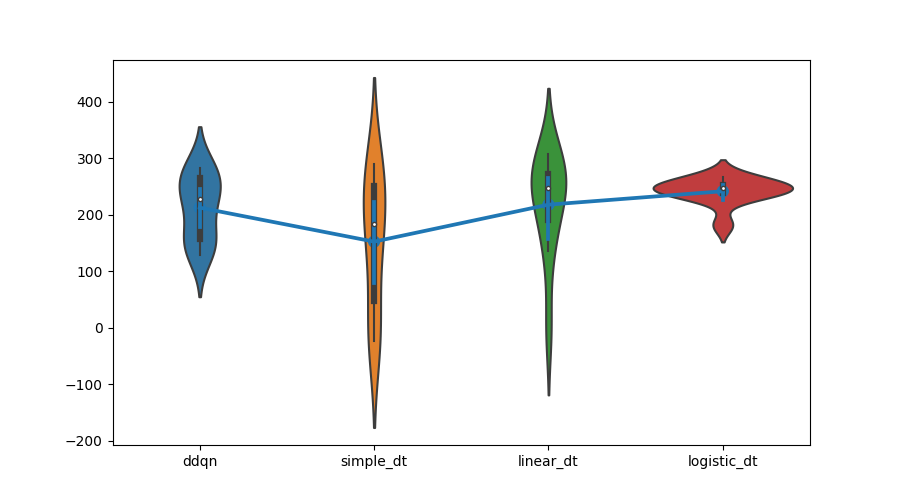
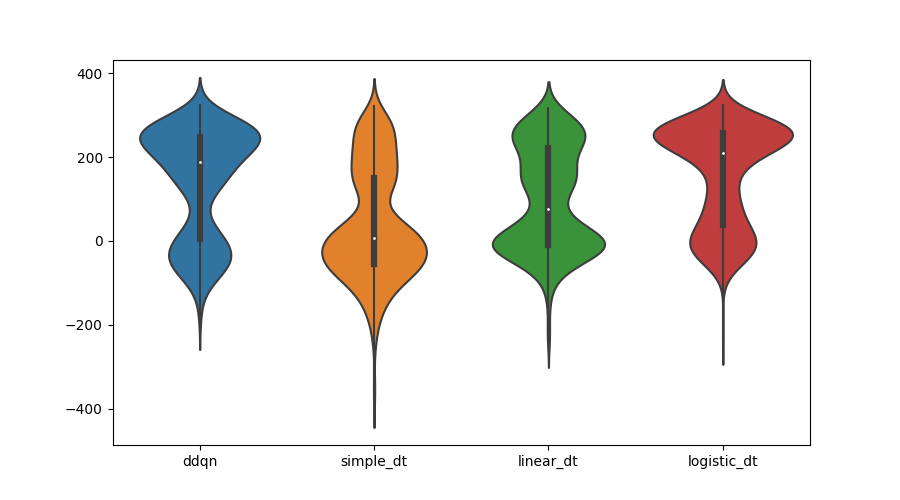
checkpoint

diff --git a/generate_table.py b/generate_table.py
@@ -1,0 +1,91 @@
+from rl import test_policy_full
+
+import torch
+import gymnasium as gym
+import matplotlib.pyplot as plt
+import seaborn as sns
+import pandas as pd
+import numpy as np
+
+from dqn import QNetwork
+from rl import train_dagger, test_policy_full
+from dt import DTPolicy, load_dt_policy, save_dt_policy, save_dt_policy_viz
+
+
+def load_ddqn():
+    q_network = QNetwork(state_size=8, action_size=4, seed=42)
+    q_network.load_state_dict(
+        torch.load('checkpoint.pth', map_location=torch.device('cpu')))
+
+    return q_network
+
+
+policies = {
+    'ddqn': load_ddqn(),
+    'simple_dt': load_dt_policy('models', 'simple_dt_policy.pk'),
+    'linear_dt': load_dt_policy('models', 'linear_dt_policy.pk'),
+    'logistic_dt': load_dt_policy('models', 'logistic_dt_policy.pk'),
+}
+
+n = 10
+
+
+def compare_all():
+    wind_powers = [0.0, 5.0, 10.0, 15.0, 20.0]
+    turbulence = 1.5
+    rewards = []
+
+    for wp in wind_powers:
+        env = gym.make(
+            'LunarLander-v2',
+            enable_wind=True,
+            wind_power=wp,
+            turbulence_power=turbulence
+        )
+        print(f"\nTesting for wind power: {wp}")
+
+        for model in policies:
+            print("Testing model:", model)
+            reward = np.mean(test_policy_full(
+                env, policies[model], n_test_rollouts=n))
+            print(f"{model} - Avg. Reward: {reward}")
+            rewards.append([wp, model, reward])
+
+    # Convert rewards to DataFrame
+    df_mean_rewards = pd.DataFrame(
+        rewards, columns=['Wind Power', 'Model', 'Avg. Reward'])
+
+    # Pivot the DataFrame so that 'Model' values become rows and 'Wind Power' values become columns
+    df_mean_rewards_pivot = df_mean_rewards.pivot(
+        index='Model', columns='Wind Power', values='Avg. Reward')
+
+    # Add "wind_power=" to the column names
+    df_mean_rewards_pivot.columns = [
+        'wind_power=' + str(col) for col in df_mean_rewards_pivot.columns]
+
+    # Round the rewards to 2 decimal places
+    df_mean_rewards_pivot = df_mean_rewards_pivot.round(2)
+
+    # Create a new figure
+    fig, ax = plt.subplots(1, 1, figsize=(10, 5))
+
+    # Hide axes
+    ax.axis('tight')
+    ax.axis('off')
+
+    # Create the table and scale it to the figure
+    the_table = ax.table(cellText=df_mean_rewards_pivot.values,
+                         colLabels=df_mean_rewards_pivot.columns,
+                         rowLabels=df_mean_rewards_pivot.index,
+                         cellLoc='center', loc='center')
+
+    # Save the figure before showing it
+    name = 'table.png' if turbulence == 0 else 'table_with_turbulence.png'
+    plt.savefig(name, bbox_inches='tight')
+
+    # Show the plot
+    plt.show()
+
+
+if __name__ == '__main__':
+    compare_all()

diff --git a/generate_boxplot.py b/generate_boxplot.py
@@ -5,21 +5,29 @@ import gymnasium as gym
 import matplotlib.pyplot as plt
 import seaborn as sns
 import pandas as pd
+import numpy as np
 
 from dqn import QNetwork
 from rl import train_dagger, test_policy_full
-from dt import DTPolicy, load_dt_policy, save_dt_policy, save_dt_policy_viz 
+from dt import DTPolicy, load_dt_policy, save_dt_policy, save_dt_policy_viz
+
 
 def load_ddqn():
     q_network = QNetwork(state_size=8, action_size=4, seed=42)
     q_network.load_state_dict(
         torch.load('checkpoint.pth', map_location=torch.device('cpu')))
-    
+
     return q_network
 
+
 def compare_all():
-    env = gym.make('LunarLander-v2')
-    n=1000
+    env = gym.make(
+        'LunarLander-v2',
+        enable_wind=True,
+        wind_power=15.0,
+        turbulence_power=1.5
+    )
+    n = 1000
 
     print("Loading models...")
     policies = {
@@ -32,15 +40,29 @@ def compare_all():
     rewards = {}
     for model in policies:
         print("Testing model:", model)
-        rewards[model] = test_policy_full(env, policies[model], n_test_rollouts=n)
-    
+        rewards[model] = test_policy_full(
+            env, policies[model], n_test_rollouts=n)
+        print(f"{model} - Avg. Reward: {np.mean(rewards[model])}")
+
     df = pd.DataFrame.from_dict(rewards)
     print(df.head())
-    plt.figure(figsize=(9,5))
-    sns.violinplot(data=df, palette='tab10', showmeans=True)
+    plt.figure(figsize=(9, 5))
+    sns.violinplot(data=df, palette='tab10')
     plt.savefig('comp.png')
     plt.show()
-    
+    plt.close()
+
+    plt.figure(figsize=(9, 5))
+    sns.boxplot(
+        data=df,
+        palette='tab10',
+        showmeans=True,
+        meanprops={"marker": "o",
+                   "markerfacecolor": "white",
+                   "markeredgecolor": "black",
+                   "markersize": "8"})
+    plt.savefig('box_comp.png')
+    plt.show()
 
 
 if __name__ == '__main__':
